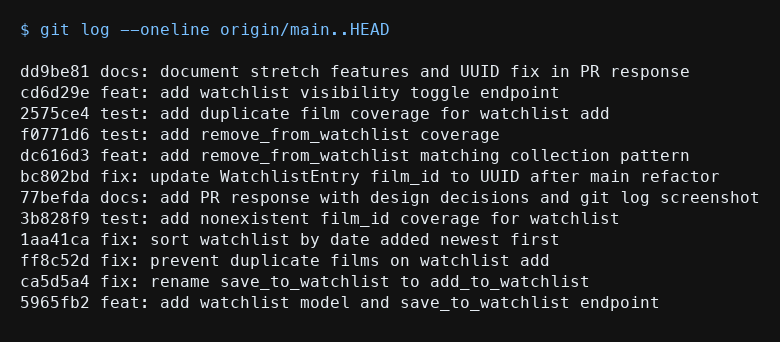
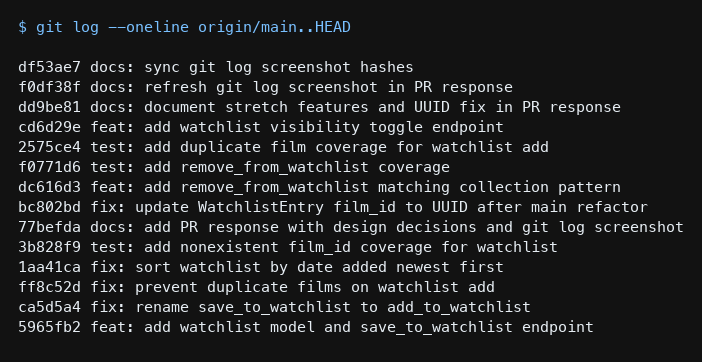
docs: sync git log screenshot hashes

Changed region(s): [[0.0299, 0.1462, 0.9872, 0.9357], [0.0299, 0.0585, 0.5085, 0.117]]

diff --git a/pr-response.md b/pr-response.md
@@ -54,6 +54,8 @@ For Milestone 4, I pasted `git log --oneline origin/main..HEAD` and asked whethe
 ![git log --oneline screenshot](docs/git-log-screenshot.png)
 
 ```
+df53ae7 docs: sync git log screenshot hashes
+f0df38f docs: refresh git log screenshot in PR response
 dd9be81 docs: document stretch features and UUID fix in PR response
 cd6d29e feat: add watchlist visibility toggle endpoint
 2575ce4 test: add duplicate film coverage for watchlist add
